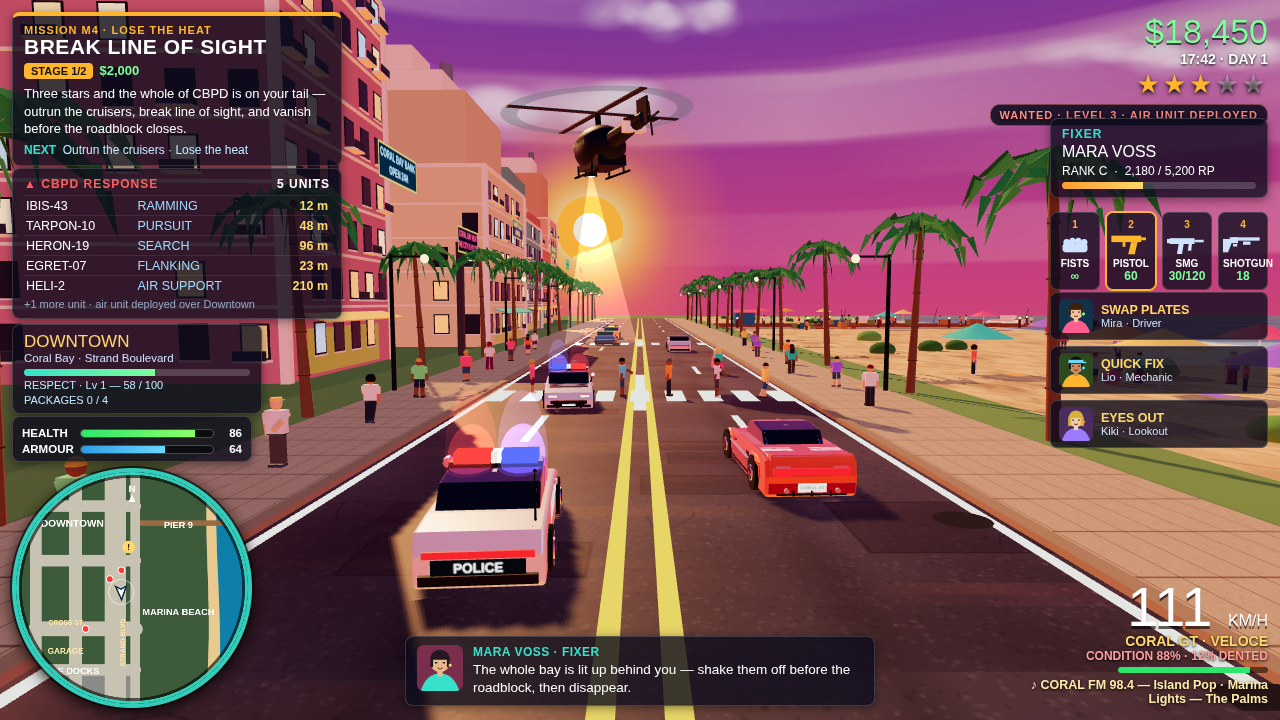
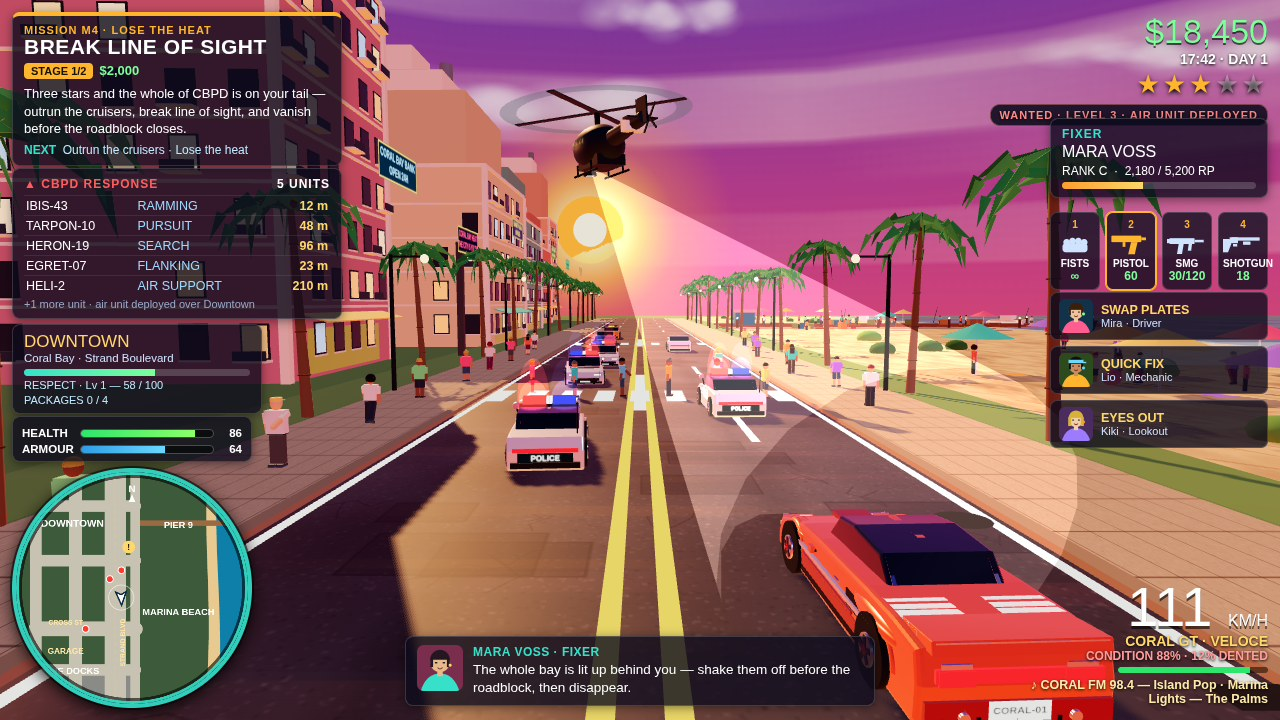
Phase 2 v15.3: fix round 6 follow-up — cover camera behind hero car, shootout surround, red markers, burning van, heli spotlight aim
Cover: camera now behind the red hero car (high rear-3/4 chase cam, Karimbu
composition) — hero big in foreground, 4 cruisers ahead, heli overhead with
the searchlight aimed at the hero car (recomputed per frame: the heli bobs
and drifts). 4 cruisers + heli = the panel's 5 UNITS.
Shootout: player is the unmistakable protagonist — 1.3x hero scale, moved to
the centre of the frame, red jacket dominant, back to camera — standing in
the middle of a half-circle of 3 officers (red GTA-style target marker above
each officer's head; player has none). Fallen officer + blood stay inside
the circle. Behind the officers: 4 police cars + 1 burning police box van
(mesh flames + smoke + scorch, no sprites). Crosshair stays on officer 1's
belt; all 3 officers return fire at the player, phases spread.
Map and title unchanged from fix round 6.

Changed region(s): [[0.3125, 0.1222, 0.9062, 1.0], [0.0312, 0.6417, 0.0625, 0.6722]]

diff --git a/game/src/main.js b/game/src/main.js
@@ -5,7 +5,8 @@ import * as THREE from 'three';
 import { buildCity } from './world.js';
 import { initPortraits, drawMinimap, updateHud, renderHud } from './hud.js';
 import { SHOTS, shotName } from './shots.js';
-import { animateCrowd, makePerson, makeFallenPerson, makeShooter, makePoliceOfficer } from './people.js';
+import { animateCrowd, makePerson, makeFallenPerson, makeShooter, makePoliceOfficer, makeTargetMarker } from './people.js';
+import { makePoliceCar, makeBurningPoliceVan } from './cars.js';
 import { skyTexture, sunGlowTexture, muzzleFlashTexture } from './textures.js';
 import { createGame } from './game.js';
 
@@ -105,23 +106,54 @@ heli.position.set(...preset.heli);
 // (-1.2, 3.5) rot 0.35, hero parked front-3/4) is gone — the hero
 // drives now, and the HUD reads 111 KM/H.
 if (shot === 'cover') {
-  // cop 1 chases close behind the hero, left lane, facing north: the
-  // camera sits behind and right of the hero, so it sees this
-  // cruiser's REAR — its slim light bar, its POLICE rear placard and
-  // its whip antenna, all hot on the hero's tail. At z 11 (not 13)
-  // the whole cruiser fits in frame with its placard clear of the
-  // dialogue panel — at 13, with the closer fix-6 lens, the rear
-  // bumper sat 6 m from the camera and the placard was cut off.
+  // FOUR cruisers + heli = the panel's "5 UNITS" (IBIS-43, TARPON-10,
+  // HERON-19, EGRET-07 + HELI-2) — the count on screen now matches the
+  // count in the CBPD RESPONSE panel. FIX ROUND 6 FOLLOW-UP (v15.3):
+  // the cruisers are ALL AHEAD of the hero now. The old staging put
+  // cop1 (z 11) closer to the lens than the hero (z 6), so the white
+  // cruiser dominated the foreground and read as the player's car.
+  // Now the hero (z 14) is the big foreground car and the chase reads
+  // the right way round: two cruisers lead ahead of him (cop1 left
+  // lane, cop3 his own lane — rears to the lens, POLICE placards +
+  // light bars) and two come on as a roadblock (cop2, cop4 — fronts
+  // to the lens, push bars + headlights).
   const cop1 = refs.traffic[0];
-  cop1.position.set(-2.5, 0, 11);
+  cop1.position.set(-2.5, 0, 4);
   cop1.rotation.y = 0.08;
+  // cop 3 leads in the hero's own lane, directly ahead of him: the
+  // hero is right on his tail, so the chase reads as pursuit, not as
+  // a lone car. traffic[7] (police3) is reused — its cross-street
+  // default spot is never seen in the cover frame.
+  const cop3 = refs.traffic[7];
+  cop3.position.set(3.5, 0, -4);
+  cop3.rotation.y = 0.05;
   // cop 2 comes on ahead in the left lane, facing south: the camera
   // sees its FRONT — push bar, headlights, hood POLICE and its light
-  // bar, a roadblock closing on the hero from the front. At z -6
-  // (not -12) it is big enough for its bar to read.
+  // bar, a roadblock closing on the hero from the front. At z -14
+  // (not -6) it sits deeper in the frame, behind cop1, so the four
+  // cruisers layer in depth instead of bunching.
   const cop2 = refs.traffic[1];
-  cop2.position.set(-3, 0, -6);
+  cop2.position.set(-3, 0, -14);
   cop2.rotation.y = Math.PI + 0.1;
+  // cop 4 is the second roadblock car, far ahead in the left lane,
+  // front to the lens — the roadblock line runs into the distance
+  // (civ2, taxi further on). Built fresh here, shot-only, and pushed
+  // into refs.traffic so the animate loop pulses its light bar with
+  // the other cruisers.
+  const cop4 = makePoliceCar();
+  cop4.position.set(-2.5, 0, -24);
+  cop4.rotation.y = Math.PI + 0.1;
+  scene.add(cop4);
+  refs.traffic.push(cop4);
+  // FIX ROUND 6 FOLLOW-UP (v15.3) — the heli searchlight is AIMED AT
+  // THE HERO CAR: the beam lands on the red hero, not on empty road
+  // or a cruiser, so the spotlight itself says which car is ours.
+  // The aim is recomputed every frame in animate() (the heli bobs
+  // ±0.5 m and drifts ±0.8 m, which would walk a fixed beam off the
+  // car); here we only store the target and brighten the beam a
+  // touch (0.16, was 0.10) so the long diagonal shaft reads.
+  heli.userData.spotTarget = new THREE.Vector3(3.5, 1.0, 14);
+  heli.userData.cone.material.opacity = 0.16;
   // FIX ROUND 6b: the cover is a POLICE CHASE at 111 KM/H with three
   // stars — but the static HUD panel still says M1 "STEAL THE MARINA
   // SEDAN / Reach the marina lot", a quiet theft, which contradicts
@@ -205,43 +237,77 @@ function makeGunfire(from, target, phase) {
 let shootoutAim = null;
 if (shot === 'shootout') {
   // THE PLAYER, back to the camera, two-handed aim north-west across
-  // the sand toward the officer. Faces (17, 0) from (24, 8), rot 0.72,
-  // so the over-shoulder camera south-east of him sees his BACK and
-  // the gun IN PROFILE — aiming across the frame, the pistol reads as
-  // a weapon, not a dot. Red jacket (seed 7, the player's own seed)
-  // so he reads as the player, not a random NPC.
+  // the sand toward officer 1. FIX ROUND 6 FOLLOW-UP (Egi 16:41 +
+  // 16:48 WIB): the player was losing to the officer — same size, so
+  // at a glance nobody knew which figure was ours. Now he is the
+  // UNMISTAKABLE PROTAGONIST: 1.3x hero scale like the fix-6 officer
+  // (~2.2 m), moved to (22.5, 9.5) — 5.9 m from the lens, near the
+  // CENTRE of the frame, ~280 px tall, red jacket dominant, back to
+  // the camera. And he stands IN THE MIDDLE of the formation: the
+  // officers form a HALF-CIRCLE around him (north-west, north,
+  // north-east) — we are SURROUNDED, he is the one shooting out.
+  // Faces officer 1 at (20, 4) from (22.5, 9.5), rot 0.42, so the
+  // over-shoulder camera south-east of him sees his BACK and the gun
+  // IN PROFILE — aiming across the frame, the pistol reads as a
+  // weapon, not a dot. Red jacket (seed 7, the player's own seed).
   const player = makeShooter(7, { shirt: 0xd21f26 });
-  player.position.set(24, 0.04, 8);
-  player.rotation.y = 0.79;
+  player.scale.multiplyScalar(1.3);
+  player.position.set(22.5, 0.04, 9.5);
+  player.rotation.y = 0.42;
   scene.add(player);
-  // POLICE OFFICER north-west of the player, returning fire at him.
-  // FIX ROUND 6 (v15.2): at (20.5, 4.5) — 5 m from the player and
-  // 11.2 m from the lens, not 16.7 m — so with his 1.3x hero scale
-  // he stands ~120 px tall centre-frame and the uniform (POLICE
-  // patch, gold badge + cap band, duty belt, white shirt V) reads at
-  // a glance. Faces the player (rot -2.36: toward (24, 8)).
-  const officer = makePoliceOfficer(21);
-  officer.position.set(20.5, 0.04, 4.5);
-  officer.rotation.y = -2.36;
-  scene.add(officer);
+  // THREE STANDING POLICE OFFICERS in a half-circle around the player
+  // — the surround. Each is a 1.3x hero-scale makePoliceOfficer (the
+  // uniform reads: POLICE patch, gold badge + cap band, duty belt,
+  // white shirt V) and each faces the player, returning fire at him.
+  // Officer 1 is the centre of the arc and the crosshair target.
+  const officer1 = makePoliceOfficer(21);
+  officer1.position.set(20, 0.04, 4);
+  officer1.rotation.y = -2.72;
+  scene.add(officer1);
+  const officer2 = makePoliceOfficer(22);
+  officer2.position.set(24, 0.04, 4);
+  officer2.rotation.y = 2.88;
+  scene.add(officer2);
+  const officer3 = makePoliceOfficer(23);
+  officer3.position.set(15, 0.04, 4.5);
+  officer3.rotation.y = -2.16;
+  scene.add(officer3);
+  // RED TARGET MARKERS above every officer's head, GTA-style: a red
+  // arrow/blip says "enemy / target" at a glance. Police = red
+  // marker, the player = NO marker — he is the one shooting. Markers
+  // sit ~0.55 m above the 1.3x officers' heads (y 2.72), added to the
+  // scene (the staged figures are static, so no parenting needed).
+  for (const [mx, mz] of [[20, 4], [24, 4], [15, 4.5]]) {
+    const marker = makeTargetMarker();
+    marker.position.set(mx, 2.72, mz);
+    scene.add(marker);
+  }
   // muzzle tips in world space (the gun tip anchors ride on the pistols)
   scene.updateMatrixWorld(true);
   const playerMuzzle = new THREE.Vector3();
   player.userData.muzzleTip.getWorldPosition(playerMuzzle);
-  const officerMuzzle = new THREE.Vector3();
-  officer.userData.muzzleTip.getWorldPosition(officerMuzzle);
-  const officerChest = new THREE.Vector3(20.5, 1.6, 4.5);
-  const playerChest = new THREE.Vector3(24, 1.25, 8);
-  // player's flash at his own gun, officer's flash at his — two flashes,
-  // two tracers crossing the sand, a real stand-off, not a lone spark
+  const muzzle1 = new THREE.Vector3();
+  officer1.userData.muzzleTip.getWorldPosition(muzzle1);
+  const muzzle2 = new THREE.Vector3();
+  officer2.userData.muzzleTip.getWorldPosition(muzzle2);
+  const muzzle3 = new THREE.Vector3();
+  officer3.userData.muzzleTip.getWorldPosition(muzzle3);
+  const officerChest = new THREE.Vector3(20, 1.6, 4);
+  const playerChest = new THREE.Vector3(22.5, 1.63, 9.5);
+  // player's flash at his own gun, officers' flashes at theirs — four
+  // flashes, four tracers converging on the player, a real surround,
+  // not a lone spark. Phases spread (0 / PI / PI/2 / 3PI/2) so the
+  // flashes never pulse in sync.
   scene.add(makeGunfire(playerMuzzle, officerChest, 0));
-  scene.add(makeGunfire(officerMuzzle, playerChest, Math.PI));
-  // FIX ROUND 6b: the crosshair aims at the officer's BELT (waist),
+  scene.add(makeGunfire(muzzle1, playerChest, Math.PI));
+  scene.add(makeGunfire(muzzle2, playerChest, Math.PI / 2));
+  scene.add(makeGunfire(muzzle3, playerChest, Math.PI * 1.5));
+  // FIX ROUND 6b: the crosshair aims at officer 1's BELT (waist),
   // NOT his chest — the chest aim put the 46 px crosshair dead over
   // the POLICE patch and the gold badge, hiding the two markers the
   // whole uniform fix exists to show. The player's TRACER still runs
   // to the chest (officerChest above); only the crosshair drops.
-  shootoutAim = new THREE.Vector3(20.5, 0.95, 4.5);
+  shootoutAim = new THREE.Vector3(20, 0.95, 4);
   // fallen POLICE OFFICER on the sand, broadside to the lens, OFF the
   // player–officer line: the old spot (19, 2) sat on the line from the
   // camera through the player to the officer, so the player's own body
@@ -255,11 +321,33 @@ if (shot === 'shootout') {
   fallen.position.set(17.5, 0.04, 6.5);
   fallen.rotation.y = 2.2;
   scene.add(fallen);
-  // police car pulled up on the beach road behind the fight, rear 3/4
-  // to the lens so the slim light bar + POLICE rear placard read.
+  // BEHIND the officers, the police cordon: 4 POLICE CARS + 1 BURNING
+  // POLICE BOX VAN on the beach road (Egi 16:46–16:48 WIB) — the
+  // depth order from the lens is player (front, biggest) -> officers
+  // surrounding him -> cars + burning van behind them. The van is the
+  // chaos anchor: flame cones + smoke column + scorch, mesh-only
+  // (no sprites — sprites parented to a car never draw in this build).
+  // Cars are the traffic pool's own police cars, repositioned
+  // shot-only; the van and the 4th car are new builds pushed into
+  // refs.traffic so their light bars pulse with the rest.
   const beachCop = refs.traffic[1];
   beachCop.position.set(4.5, 0, -14);
   beachCop.rotation.y = 0.3;
+  const roadCop2 = refs.traffic[0];
+  roadCop2.position.set(-2.5, 0, -20);
+  roadCop2.rotation.y = 0.1;
+  const roadCop3 = refs.traffic[7];
+  roadCop3.position.set(3.5, 0, -26);
+  roadCop3.rotation.y = 0.1;
+  const roadCop4 = makePoliceCar();
+  roadCop4.position.set(-3, 0, -32);
+  roadCop4.rotation.y = Math.PI + 0.1;
+  scene.add(roadCop4);
+  refs.traffic.push(roadCop4);
+  const burnVan = makeBurningPoliceVan();
+  burnVan.position.set(6.5, 0, -18);
+  burnVan.rotation.y = 0.4;
+  scene.add(burnVan);
   // mission panel: this is a POLICE STAND-OFF, not the M1 default the
   // static HTML carries ("STEAL THE MARINA SEDAN"). M4 LOSE THE HEAT
   // ($2,000, three stars) is the game's own police mission, so the
@@ -460,6 +548,30 @@ function animate() {
   if (heli.userData.tailRotor) heli.userData.tailRotor.rotation.x += dt * 22;
   heli.position.y = preset.heli[1] + Math.sin(t * 0.7) * 0.5;
   heli.position.x = preset.heli[0] + Math.sin(t * 0.23) * 0.8;
+
+  // FIX ROUND 6 FOLLOW-UP (v15.3): aim the heli searchlight AT the
+  // hero car. The heli bobs +/-0.5 m and drifts +/-0.8 m every frame
+  // and sits rotated (rotation.y 0.5, scale 1.35), so a static cone
+  // would sweep off the car — recompute the aim every frame: pod =
+  // the cone apex in world space, dir = pod -> spotTarget, stretch
+  // the cone to that length and rotate its local -Y axis onto dir.
+  // Only the cover sets spotTarget; other shots keep the default cone.
+  if (heli.userData.spotTarget) {
+    heli.updateMatrixWorld(true);
+    const cone = heli.userData.cone;
+    const pod = heli.localToWorld(new THREE.Vector3(0, -0.7, -1.2));
+    const target = heli.userData.spotTarget;
+    const dir = target.clone().sub(pod);
+    const len = dir.length();
+    dir.normalize();
+    const q = new THREE.Quaternion().setFromUnitVectors(new THREE.Vector3(0, -1, 0), dir);
+    const heliQ = new THREE.Quaternion();
+    heli.getWorldQuaternion(heliQ);
+    cone.quaternion.copy(heliQ.invert().multiply(q));
+    cone.scale.set(1, len / (9 * heli.scale.y), 1);
+    const mid = pod.clone().addScaledVector(dir, len / 2);
+    cone.position.copy(heli.worldToLocal(mid));
+  }
 
   // police light bars flash — but the LENSES stay at full saturated
   // colour in every phase (red 1.0, blue 1.0): dimming a lens to 0.7

diff --git a/game/src/cars.js b/game/src/cars.js
@@ -511,6 +511,78 @@ export function makeVan(color = 0x4a7a9e) {
   return g;
 }
 
+// A BURNING POLICE BOX VAN (SWAT-style) — fix round 6 follow-up
+// (v15.3): a white box van with POLICE flank decals and a slim roof
+// light bar, its cab/hood on fire: layered additive flame cones over
+// the front, a soft additive glow, a dark smoke column rising above,
+// a charred roof patch and a scorch mark on the ground. All MESH
+// geometry — sprite halos parented to a car never draw in this build
+// (verified with six headless probes: sprites parented to the scene
+// draw fine, clones parented to a car render nothing), so the fire is
+// cones and spheres, never sprites. Static — the staged van never
+// moves, so the flames hold their shape in every frame.
+export function makeBurningPoliceVan() {
+  const g = makeVan(0xf2f2ee);
+  const navy = new THREE.MeshPhysicalMaterial({ color: 0x0d2b45, metalness: 0.4, roughness: 0.35, clearcoat: 0.7 });
+  const black = new THREE.MeshPhysicalMaterial({ color: 0x14161c, metalness: 0.4, roughness: 0.4, clearcoat: 0.5 });
+  // navy side stripe + POLICE flank decals (same pattern as the sedan)
+  for (const side of [-1, 1]) {
+    g.add(box(0.02, 0.26, 3.6, navy, side * 0.96, 0.52, 0));
+    const decal = new THREE.Mesh(new THREE.PlaneGeometry(1.35, 0.41),
+      new THREE.MeshBasicMaterial({ map: textTexture('POLICE', '#0d2b45', '#ffffff', 'bold 80px Arial', 320, 96) }));
+    decal.position.set(side * 0.965, 0.70, 0.15);
+    decal.rotation.y = side * Math.PI / 2;
+    g.add(decal);
+  }
+  // slim roof light bar: low black base + unlit red/blue lenses
+  g.add(box(1.3, 0.06, 0.3, black, 0, 1.46, -0.5));
+  const redLens = new THREE.Mesh(new THREE.BoxGeometry(0.5, 0.14, 0.24),
+    new THREE.MeshBasicMaterial({ color: 0xff1020 }));
+  redLens.position.set(-0.35, 1.55, -0.5);
+  g.add(redLens);
+  const blueLens = new THREE.Mesh(new THREE.BoxGeometry(0.5, 0.14, 0.24),
+    new THREE.MeshBasicMaterial({ color: 0x1030ff }));
+  blueLens.position.set(0.35, 1.55, -0.5);
+  g.add(blueLens);
+  // charred roof patch under the flames
+  g.add(box(1.6, 0.02, 2.0, black, 0, 1.44, -1.2));
+  // ---- fire: layered additive cones over the cab/hood (front is -Z) ----
+  const flameMat = (color, opacity) => new THREE.MeshBasicMaterial({
+    color, transparent: true, opacity, blending: THREE.AdditiveBlending,
+    depthWrite: false, side: THREE.DoubleSide,
+  });
+  // [radius, height, x, y, z, color, opacity]
+  for (const [r, h, x, y, z, c, o] of [
+    [0.55, 1.6, 0, 2.1, -1.6, 0xff6a00, 0.85],
+    [0.38, 1.2, 0.15, 2.0, -1.7, 0xff9d2e, 0.9],
+    [0.22, 0.9, -0.1, 1.95, -1.5, 0xffd21a, 0.95],
+    [0.30, 1.0, -0.5, 1.9, -1.2, 0xff7a1a, 0.85],
+  ]) {
+    const cone = new THREE.Mesh(new THREE.ConeGeometry(r, h, 12), flameMat(c, o));
+    cone.position.set(x, y, z);
+    g.add(cone);
+  }
+  // soft additive glow around the flame cluster
+  const glow = new THREE.Mesh(new THREE.SphereGeometry(0.9, 12, 10),
+    new THREE.MeshBasicMaterial({ color: 0xff8c1a, transparent: true, opacity: 0.18, blending: THREE.AdditiveBlending, depthWrite: false }));
+  glow.position.set(0, 1.9, -1.6);
+  g.add(glow);
+  // ---- smoke: dark spheres rising and drifting +x (wind), growing ----
+  const smokeMat = new THREE.MeshBasicMaterial({ color: 0x232326, transparent: true, opacity: 0.35, depthWrite: false });
+  for (const [x, y, z, r] of [[0.2, 3.2, -1.6, 0.55], [0.6, 4.0, -1.4, 0.75], [1.1, 4.9, -1.2, 0.95], [1.7, 5.8, -1.0, 1.15], [2.4, 6.7, -0.8, 1.35]]) {
+    const s = new THREE.Mesh(new THREE.SphereGeometry(r, 10, 8), smokeMat);
+    s.position.set(x, y, z);
+    g.add(s);
+  }
+  // scorch mark on the ground under the van
+  const scorch = new THREE.Mesh(new THREE.CircleGeometry(1.8, 20),
+    new THREE.MeshBasicMaterial({ color: 0x0a0a0a, transparent: true, opacity: 0.5, depthWrite: false }));
+  scorch.rotation.x = -Math.PI / 2;
+  scorch.position.set(0, 0.03, 0);
+  g.add(scorch);
+  return g;
+}
+
 // ---- scooter + rider ----------------------------------------------------
 export function makeScooter() {
   const g = new THREE.Group();

diff --git a/game/src/shots.js b/game/src/shots.js
@@ -14,12 +14,20 @@
 // skyline + sunset, behind the title screen overlay.
 export const SHOTS = {
   cover: {
-    // Chase cam: HIGH (y 3.7) and CENTRED on the road (x 0, z 21.5),
-    // behind both cars and looking straight north down the road.
-    // The camera sits central so BOTH cars fit: the chasing cruiser
-    // (cop1, left lane, 5 m ahead of the hero) in the left foreground, the hero
-    // (right lane, 16 m ahead) right of centre, the oncoming cruiser
-    // (cop2) far ahead, the road vanishing north, the heli overhead.
+    // Chase cam: HIGH (y 4.2) and CENTRED on the road (x 0, z 23),
+    // behind the hero and looking straight north down the road.
+    // FIX ROUND 6 FOLLOW-UP (v15.3) — THE HERO IS OURS, AT A
+    // GLANCE: the old staging put the chasing cruiser (cop1, z 11)
+    // CLOSER to the lens than the hero (z 6), so the white cruiser
+    // with the POLICE placard dominated the foreground and read as
+    // the player's car, while the red hero read as the car being
+    // chased. Now the camera sits behind the HERO: the hero (z 14,
+    // 9 m from the lens, right lane) is big in the right foreground,
+    // and the cruisers are all AHEAD of him — two leading the chase
+    // in front of him (cop1 left lane, cop3 his own lane, rears to
+    // the lens) and two oncoming as a roadblock (cop2, cop4, fronts
+    // to the lens). Like Karimbu's cover: hero big mid-drive,
+    // cruisers ahead, heli overhead.
     // A right-side camera (x 8.5) pushed cop1 out of the left edge
     // of the frame — the chase read as a lone car, not a pursuit.
     // FIX ROUND 6 (v15.2): camera 2.5 m closer (z 24 -> 21.5) and
@@ -34,9 +42,10 @@ export const SHOTS = {
     look: [0, 1.0, -16],
     // hero MID-DRIVE, facing north in the northbound lane (x 3.5),
     // a touch of angle (rot 0.05) so he reads as steering, not parked.
-    // At z 6 (not 8) he keeps a 2.4 m gap to the chasing cruiser's
-    // nose (cop1 at z 13) — bumper to bumper at 8.
-    hero: [3.5, 0, 6],
+    // At z 14 he is 9 m from the lens — the big foreground car, the
+    // one the camera follows, unmistakably OURS. The cruisers all sit
+    // ahead of him (cop1 z 4, cop3 z -4, cop2 z -14, cop4 z -24).
+    hero: [3.5, 0, 14],
     heroRot: 0.05,
     heli: [-3, 14, -24],
     wanted: 3,

diff --git a/game/src/people.js b/game/src/people.js
@@ -405,6 +405,24 @@ export function makePoliceOfficer(seed = 21) {
   return g;
 }
 
+// A GTA-style red target marker: a bright-red arrow (cone, tip down)
+// hovering above a police officer's head, so the eye finds the TARGET
+// at a glance — police wear the marker, the player does not. Unlit
+// MeshBasicMaterial, so it stays full red in dusk light. Static —
+// the staged officers never move, so the marker never needs to follow
+// anyone. Place the group ~0.6 m above the officer's cap
+// (y ≈ 2.72 for a 1.3x officer) in the staging code.
+export function makeTargetMarker() {
+  const g = new THREE.Group();
+  const arrow = new THREE.Mesh(
+    new THREE.ConeGeometry(0.22, 0.45, 12),
+    new THREE.MeshBasicMaterial({ color: 0xff2020, transparent: true, opacity: 0.95 }),
+  );
+  arrow.rotation.x = Math.PI; // tip down, like GTA's enemy arrow
+  g.add(arrow);
+  return g;
+}
+
 // A dock worker: hi-vis orange vest, reflective stripes, yellow hard hat.
 // Same grounded rig as a pedestrian (feet reach y = 0), so the docks crew
 // stands ON the apron, never on a car, and reads at a glance.
